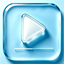
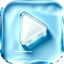
冰块图标去白框（v0.27.0）：白框是图源自带的白色玻璃外框——内切 7% 裁剪去掉外圈白框+浅底，自绘 22% 圆角透明边（fnOS 桌面风格）；应用中心+双入口全部替换；预览图 docs/ice-cube-cropped-preview.png（四角 alpha=0 验证通过）；版本 0.27.0

diff --git a/src/go/cmd/fntvplus/main.go b/src/go/cmd/fntvplus/main.go
@@ -29,7 +29,7 @@ import (
 )
 
 // appVersion 与根目录 manifest 的 version 保持一致（改动版本时两处同步）。
-const appVersion = "0.26.0"
+const appVersion = "0.27.0"
 
 func main() {
 	port := flag.String("port", envOr("TRIM_SERVICE_PORT", "22350"), "监听端口")
